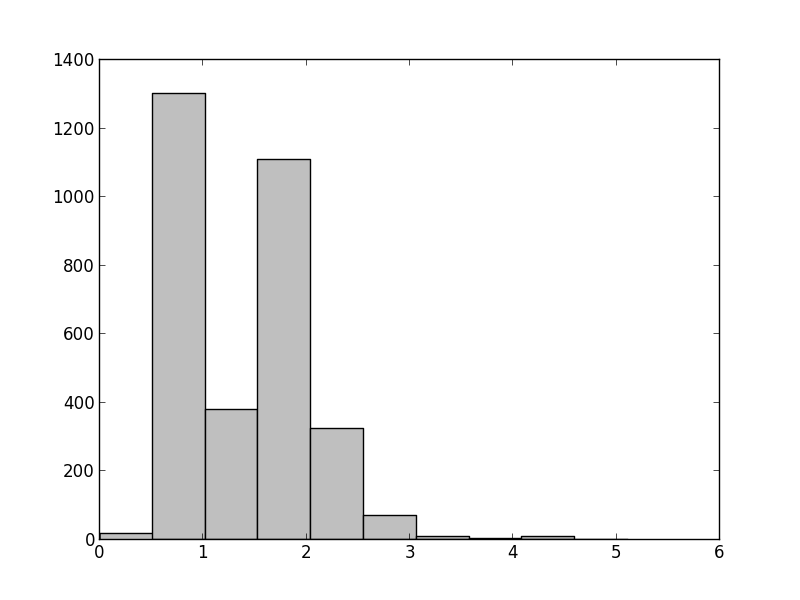
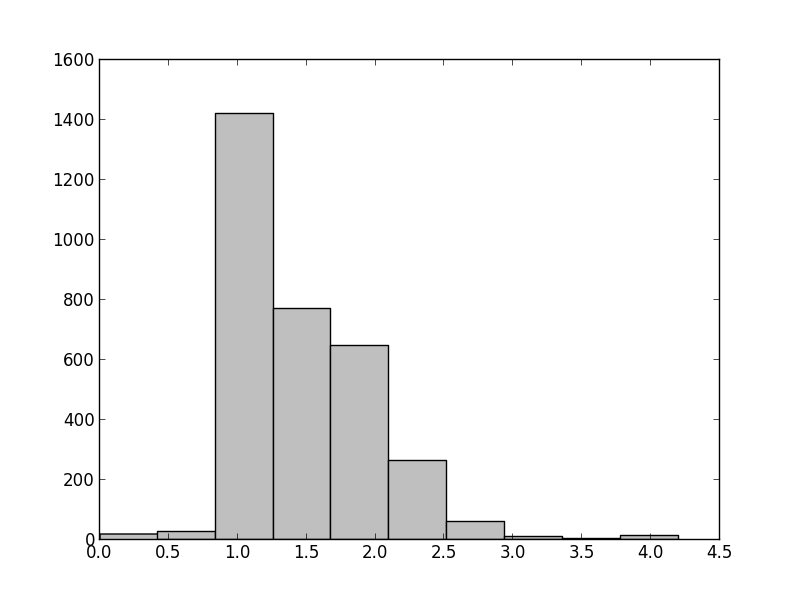
More paper progress.

diff --git a/paper/main.tex b/paper/main.tex
@@ -9,6 +9,8 @@
 \usepackage{amsmath}
 \usepackage{mathrsfs}
 \usepackage{tikz}
+\usetikzlibrary{positioning}
+\setlength{\abovecaptionskip}{2pt}
 
 \title{
 The Small World Network Effect in Open Source Project Teams
@@ -44,18 +46,61 @@ Data was collected using the freely available FLOSSmole\cite{floss2006} data set
 \subsection{Analysis}
 Results were analyzed using the Python graph processing packaged NetworkX\cite{hagberg-2008-exploring}.
 
+\textit{Graph Structure}
+A bipartite graph is a specialized type of graph containing two disjoint sets of verticies. This can be denoted by $G=(P,C,E)$, where $P \cap C = \emptyset$. For our purposes, let set $P$ be the set of all projects, and set $C$ be the set of all contributors. Each project node, therefore, is only connected to contributor nodes, and vice versa.
+
+\begin{figure}
+\label{fig:example_graphs}
+\centering
+\begin{tikzpicture}
+\tikzset{P/.style={circle,fill=lightgray!20}}
+\tikzset{C/.style={circle,fill=black!20}}
+
+ [scale=.5,auto=left]
+  \node[P] (p1) at (-5,3)  {$P_1$};
+  \node[P] (p2) at (-5,2)  {$P_2$};
+  \node[P] (p3) at (-5,1)  {$P_3$};
+  \node[P] (p4) at (-5,0)  {$P_4$};
+
+  \node[C] (c1) at (-2,3)  {$C_1$};
+  \node[C] (c2) at (-2,2)  {$C_2$};
+  \node[C] (c3) at (-2,1)  {$C_3$};
+  \node[C] (c4) at (-2,0)  {$C_4$};
+  
+  \draw ({p1}) -- ({c1});
+  \draw ({p1}) -- ({c2});
+  \draw ({p2}) -- ({c2});
+  \draw ({p2}) -- ({c4});
+  \draw ({p3}) -- ({c3});
+  \draw ({p4}) -- ({c3});
+  \node[draw=none,fill=none,rectangle,left=1mm of p1] {Projects}; 
+  \node[draw=none,fill=none,rectangle,right=1mm of c1] {Contributors}; 
+\end{tikzpicture}
+\caption{A caption.}
+\end{figure}
+
+This is a typical representation found in social and collaboration networks\cite{ramasco2004self}.
+
+
+The collected data was organized into a graph structure $G$, with the nodes representing the projects and the edges representing one or more shared developer between projects.
+
+
 We calcluate the \textit{Clustering Coefficient} (or $C^\delta$) as a measure of the proportion of closed triangles in a graph\cite{newman2003structure}:
 \[C^\delta = 3 \times \frac{\text{number of triangles}}
                     {\text{number of connected triples}}\]
 
-Also, measuring \textit{Path Length} ($L$) allows us to gauge how far removed developers in the graph are from one another. For example 
+Also, measuring \textit{Path Length} ($L$) allows us to determine how far removed developers in the graph are from one another. For example 
 
+\begin{figure}
+\label{fig:example_graphs}
+\centering
 \begin{tikzpicture}
   [scale=.5,auto=left,every node/.style={circle,fill=gray!20}]
   \node (n1) at (15,8) {1};
   \node (n2) at (12,6)  {2};
   \node (n3) at (9,5)  {3};
   \node (n4) at (6,5)  {4};
+  \node[draw=none,fill=none,rectangle,right=1mm of n1] {$C^\Delta = 0.0$}; 
   
   \draw ({n1}) -- ({n2});
   \draw ({n2}) -- ({n3});
@@ -64,10 +109,12 @@ Also, measuring \textit{Path Length} ($L$) allows us to gauge how far removed de
 
 \begin{tikzpicture}
   [scale=.5,auto=left,every node/.style={circle,fill=gray!20}]
+
   \node (n1) at (15,8) {1};
   \node (n2) at (12,5)  {2};
   \node (n3) at (9,5)  {3};
   \node (n4) at (11,8)  {4};
+  \node[draw=none,fill=none,rectangle,right=1mm of n1] {$C^\Delta = 1.0$}; 
   
   \draw ({n1}) -- ({n2});
   \draw ({n2}) -- ({n3});
@@ -83,12 +130,15 @@ Also, measuring \textit{Path Length} ($L$) allows us to gauge how far removed de
   \node (n2) at (12,5)  {2};
   \node (n3) at (8,7)  {3};
   \node (n4) at (11,8)  {4};
-  
+  \node[draw=none,fill=none,rectangle,right=1mm of n1] {$C^\Delta = 0.6$}; 
+
   \draw ({n1}) -- ({n2});
   \draw ({n3}) -- ({n4});
   \draw ({n1}) -- ({n4});
   \draw ({n2}) -- ({n4});
 \end{tikzpicture}
+\caption{A caption.}
+\end{figure}
 
 \textit{Small-World-ness}
 
@@ -104,29 +154,57 @@ Also, measuring \textit{Path Length} ($L$) allows us to gauge how far removed de
 
 \input{tables/subgraphs_summary}
 
+Summary statistics for the graph analysis are captured in figure \ref{fig:summary_stats}. First, $S^\Delta > 1$ is observed for both the mean and the median, which meets the criteria for a small-world network\cite{humphries2008network}.\\
+
+$Q$ and $C^\Delta$ both indicate a non-normal distribution, as shown by the large standard deviation. This observation indicates a propensity towards the extremes of these measurements. This is further reinforced by the distribution of $Q$ shown in figure \ref{fig:q_distribution}. This figure indicates that the majority of subgraphs have a $Q$ and $C^\Delta$ value of either 0 or 1.\\
+
+Exploring this phenomenon further, follows that most graphs resemble the top or the middle graph in figure \ref{fig:example_graphs}, with relatively few resembling the bottom graph.
+
+
+\begin{figure}
+\label{fig:cc_popular}
 \begin{center}
+\caption{$C^\Delta$ of Popular Projects}
 \includegraphics[width=0.5\textwidth]{images/freecode-popular.png}
 \end{center}
+\end{figure}
 
+\begin{figure}
 \begin{center}
+\caption{$C^\Delta$ of Unpopular Projects}
 \includegraphics[width=0.5\textwidth]{images/freecode-unpopular.png}
 \end{center}
+\end{figure}
 
+\begin{figure}
+\label{fig:q_distribution}
 \begin{center}
+\caption{$Q$ Distribution}
 \includegraphics[width=0.5\textwidth]{images/freecode-q-histo.png}
 \end{center}
+\end{figure}
 
+\begin{figure}
 \begin{center}
+\caption{$S^\Delta$ Distribution}
 \includegraphics[width=0.5\textwidth]{images/freecode-smallworld-histo.png}
 \end{center}
+\end{figure}
 
+\begin{figure}
 \begin{center}
+\caption{$C^\Delta$ and Project Popularity}
 \includegraphics[width=0.5\textwidth]{images/freecode-graph.png}
 \end{center}
+\end{figure}
+
+The project graph contains a large amount of subgraphs, and as a whole appears less clustered than some other observed social network graphs\cite{madey2002open}.
 
 \subsection{Qualitative}
 
 \section{Conclusion}
+
+
 \section{Acknowledgments}
 
 \bibliographystyle{plain}

diff --git a/code/analyze_graph.py b/code/analyze_graph.py
@@ -4,7 +4,6 @@ import itertools
 import matplotlib.pyplot as plt
 import random
 import numpy as np
-import math
 import table
 
 def read_contributors():
@@ -45,29 +44,6 @@ def read_stats():
 
     return popularity
 
-def read_github():
-    contributors = {}
-    projects = {}
-    popularity = {}
-    csvreader = csv.DictReader(open('../data/combined.csv'), delimiter=',')
-    for row in csvreader:
-        if row['repository_fork'] == 'true':
-            continue
-
-        forks = int(row['repository_forks'])
-        watchers = int(row['repository_watchers'])
-        project = row['repository_url']
-        popularity[project] = int(math.sqrt(forks * watchers))
-        contributor = row['actor_attributes_login']
-        if contributor not in contributors:
-            contributors[contributor] = []
-        if project not in projects:
-            projects[project] = []
-
-        contributors[contributor].append(project)
-        projects[project].append(contributor)
-
-    return contributors, projects, popularity
 
 def reject_outliers(data):
     return data
@@ -192,8 +168,10 @@ def graph(name, contributors, popularity):
     create_histogram(name + "-smallworld", [x for x in small_worldness if x is not None])
     highest_performing(name, bins, values)
 
+    total_projects = len(set(sum(contributors.values(), [])))
+
     write_table("subgraphs_summary",
-                table.create_table("Summary", "Summary", N,
+                table.create_table("Summary", "fig:summary_stats", "Projects: %s, Subgraphs: %s, Contributors: %s" % (total_projects, N, len(contributors.keys())),
                                    {
                                        "Q": q,
                                        "$C^\Delta$": cc,

diff --git a/paper/tables/subgraphs_summary.tex b/paper/tables/subgraphs_summary.tex
@@ -1,17 +1,17 @@
 \begin{table}[htbp]\centering
-\caption{\label{Summary}
+\caption{\label{fig:summary_stats}
 \textbf{Statistics} }\begin{tabular} {@{} l r  r  r  r  r  r  @{}} \\ \hline
 \textbf{Statistic} & \textbf{Mean} & \textbf{Med} & \textbf{Max} & \textbf{Min} & \textbf{Std} \\ 
 \hline
-$C^\Delta$ & 0.51 & 0.82 & 1.0 & 0.0 & 0.5 \\ 
+$S^\Delta$ & 1.46 & 1.52 & 4.2 & 0.0 & 0.52 \\ 
 Popularity & 63.78 & 41.19 & 3978.95 & 5.12 & 88.81 \\ 
+L & 1.01 & 1.0 & 2.4 & 1.0 & 0.07 \\ 
 Q & 0.5 & 0.62 & 1.0 & 0.0 & 0.49 \\ 
 Edges & 20.64 & 3.0 & 23441.0 & 1.0 & 367.17 \\ 
-Small World & 1.46 & 1.52 & 5.11 & 0.0 & 0.52 \\ 
+$C^\Delta$ & 0.51 & 0.82 & 1.0 & 0.0 & 0.5 \\ 
 Nodes & 3.88 & 3.0 & 221.0 & 2.0 & 5.86 \\ 
-PL & 1.01 & 1.0 & 2.4 & 1.0 & 0.07 \\ 
 \hline
 \multicolumn{6}{@{}l}{
-N = 7172}
+Projects: 41121, Subgraphs: 7172, Contributors: 21970}
 \end{tabular}
 \end{table}

diff --git a/code/table.py b/code/table.py
@@ -11,7 +11,7 @@ summary_functions = OrderedDict(
      ("Std", lambda x : round(np.std(x),sigdigits))]
 )
 
-def create_table(title,label,N,stats,functions=summary_functions):
+def create_table(title,label,caption,stats,functions=summary_functions):
     table = ""
     table += "\\begin{table}[htbp]\centering\n"
     table += "\caption{\label{"+label+"}\n"
@@ -21,7 +21,7 @@ def create_table(title,label,N,stats,functions=summary_functions):
     table += "".join([s + " & " + " & ".join([str(f(stats[s])) for k,f in functions.items()]) + " \\\ \n" for s in stats])
     table += "\hline\n"
     table += "\multicolumn{"+str(len(functions)+1)+"}{@{}l}{\n"
-    table += "N = "+str(N)+"}\n"
+    table += caption+"}\n"
     table += "\end{tabular}\n"
     table += "\end{table}\n"
 
